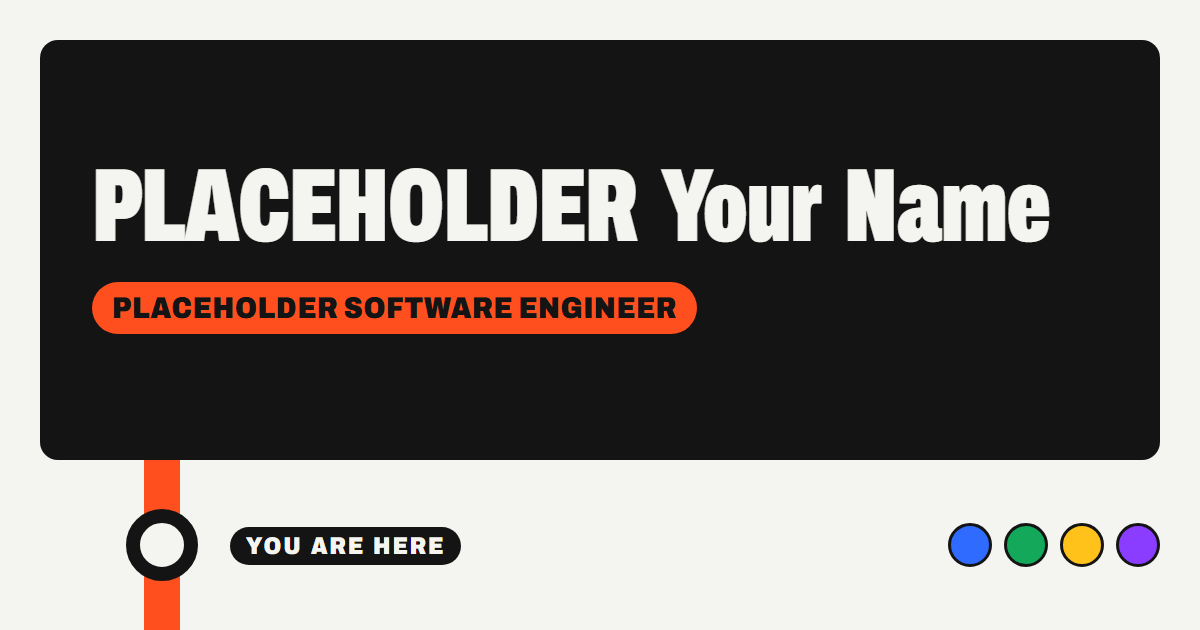
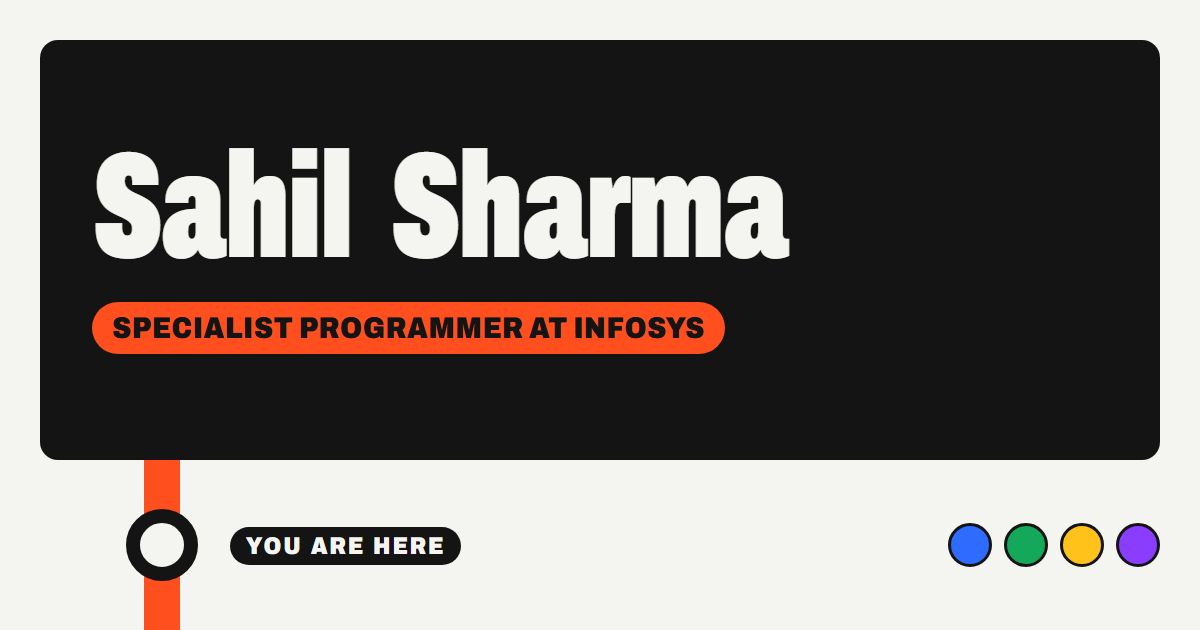
Add the owner's real profile, Experience and photo
- Profile: name, job title, headline, bio, email and social links.
- Photo: cropped square around the face, resized to 800px, and stripped of
  camera metadata (2.1MB -> 121KB). It replaces the placeholder SVG.
- Experience: Infosys, Specialist Programmer, with the file renamed to match.
- Project #1 description no longer has a PLACEHOLDER prefix.
- Preview image regenerated with the real name and job title.

Changed region(s): [[0.0617, 0.2111, 0.8942, 0.573]]

diff --git a/src/content/experience/infosys.md b/src/content/experience/infosys.md
@@ -1,0 +1,11 @@
+---
+company: Infosys
+title: Specialist Programmer
+start: 2023-01-01
+stack: [Python, Google ADK, API and Database design]
+---
+
+Working on a claims and deductions product for global manufacturers.
+
+- Built agents with the Google ADK framework
+- Helped reduce end-to-end latency
